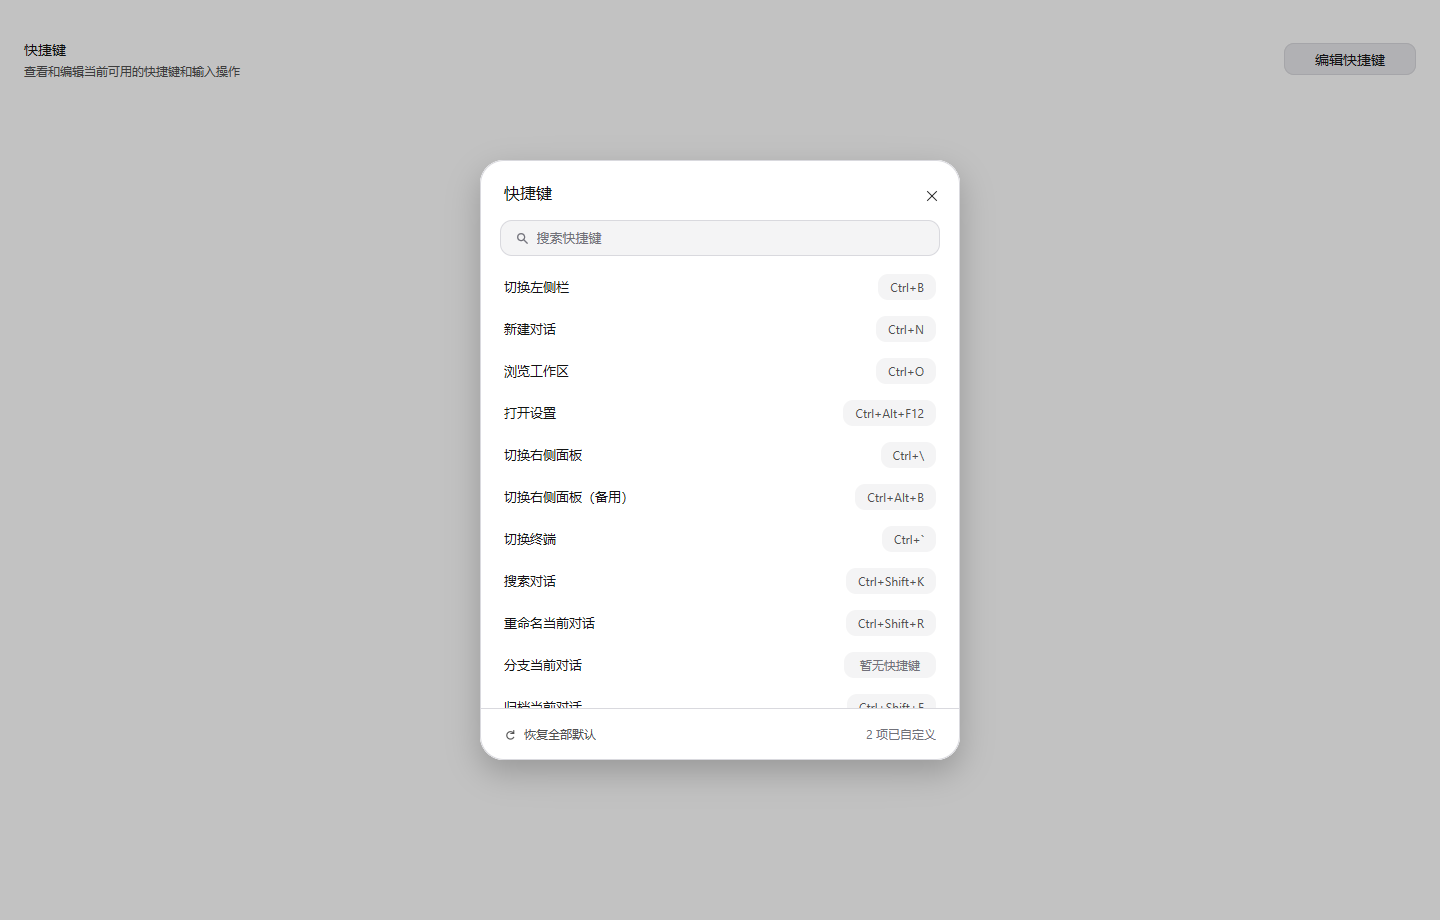
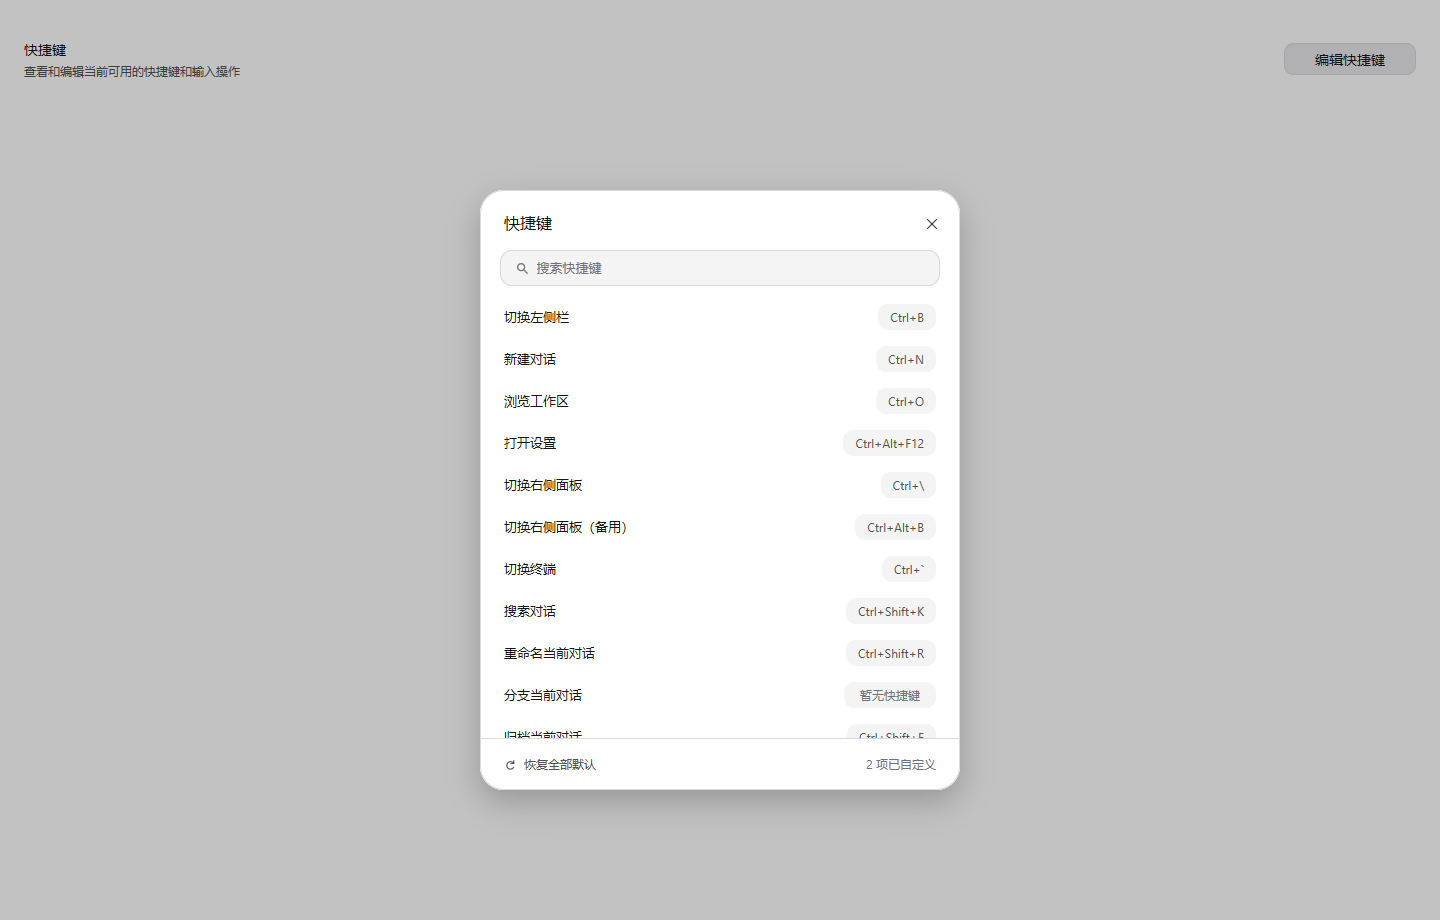
style: drop the shortcut dialog 30 DIPs and show the row edit pencil
The reference dialog sits translateY(30px) below the centered place and reveals a 20x26 pencil slot left of each key badge on hover. The inline editor also loses its extra cancel button and visible instruction, which the reference keeps off screen. DialogSurfaceBox gains OffsetY so the shared surface can drop a centered panel without moving the 40 dialogs that stay centered.

diff --git a/internal/ui/settings/shortcut_dialog_affordance_test.go b/internal/ui/settings/shortcut_dialog_affordance_test.go
@@ -1,0 +1,187 @@
+package settings
+
+import (
+	"image"
+	"math"
+	"testing"
+	"time"
+
+	"github.com/egoist/mygo/ui"
+	"whaleisle/internal/shortcuts"
+)
+
+// TestShortcutDialogDropsDownLikeTheReference pins the reference dialog's
+// translateY(30px): the 600 DIP panel centered in a 920 DIP viewport starts at
+// 190, not 160, and its 28 DIP close box keeps the reference's 20 DIP inset.
+func TestShortcutDialogDropsDownLikeTheReference(t *testing.T) {
+	e := shortcuts.NewEditor(nil, nil, func(map[string]string) error { return nil })
+	tt := shortcutDialogFixture(t, e, 1440, 920)
+
+	closeBox, ok := tt.Find(providerCopy("关闭快捷键", "Close keyboard shortcuts"))
+	if !ok {
+		t.Fatalf("shortcut dialog has no close box: %v", tt.Texts())
+	}
+	// (920-600)/2 centered + 30 dropped = 190; the close box starts 20 below.
+	wantTop := float32((920-600)/2 + shortcutDialogOffsetY + 20)
+	if math.Abs(float64(closeBox.Y-wantTop)) > 1.5 {
+		t.Fatalf("dialog top is %.1f DIPs, want %.0f (reference translateY(30px))", closeBox.Y-20, wantTop-20)
+	}
+	// The close box shares the title's center line: 28 DIP tall at 20, title
+	// 24 line height at 22.
+	if closeBox.H < 27 || closeBox.H > 29 {
+		t.Fatalf("close box is %.1f DIPs tall, want 28", closeBox.H)
+	}
+}
+
+// darkPixels counts the pixels darker than threshold inside r.
+func darkPixels(img *image.RGBA, r ui.Rect, threshold uint32) int {
+	count := 0
+	for y := int(r.Y); y < int(r.Y+r.H); y++ {
+		for x := int(r.X); x < int(r.X+r.W); x++ {
+			c := img.RGBAAt(x, y)
+			if (uint32(c.R)+uint32(c.G)+uint32(c.B))/3 < threshold {
+				count++
+			}
+		}
+	}
+	return count
+}
+
+// TestShortcutDialogRowHoverRevealsEditPencil covers the reference row
+// affordance: a 20x26 slot left of the key badge that holds the 12 DIP pencil
+// only while the pointer is over the row. The slot stays laid out while hidden,
+// so the badge does not move as the pointer enters and leaves the row.
+func TestShortcutDialogRowHoverRevealsEditPencil(t *testing.T) {
+	e := shortcuts.NewEditor(map[string]string{"session.new": "Mod+N"}, nil, func(map[string]string) error { return nil })
+	tt := shortcutDialogFixture(t, e, 1440, 920)
+
+	slot, ok := tt.Find("row-edit-session.new")
+	if !ok {
+		t.Fatalf("row has no hover action slot: %v", tt.Texts())
+	}
+	if slot.W != shortcutRowActionSize || slot.H != shortcutBadgeHeight {
+		t.Fatalf("hover slot is %.0fx%.0f, want %dx%d", slot.W, slot.H, shortcutRowActionSize, shortcutBadgeHeight)
+	}
+	badge, ok := tt.Find(shortcutDisplay("Mod+N"))
+	if !ok {
+		t.Fatalf("row has no key badge: %v", tt.Texts())
+	}
+	if !onSameLine(slot, badge) {
+		t.Fatalf("hover slot at y=%.0f is not on the badge's line y=%.0f", slot.Y, badge.Y)
+	}
+	// The badge text sits 12 DIP inside its capsule, and the capsule follows the
+	// 20 DIP slot with the row's 8 DIP gap.
+	if gap := badge.X - (slot.X + slot.W); math.Abs(float64(gap-20)) > 1.5 {
+		t.Fatalf("badge text is %.1f DIPs from the hover slot, want 20 (8 gap + 12 padding)", gap)
+	}
+	if dark := darkPixels(tt.Image(), slot, 150); dark != 0 {
+		t.Fatalf("pencil is painted while the row is not hovered (%d dark pixels)", dark)
+	}
+
+	label, ok := tt.Find("shortcut-session.new")
+	if !ok {
+		t.Fatal("row label not found")
+	}
+	tt.Move(label.X+8, label.Y+label.H/2)
+	for range 2 {
+		tt.Frame()
+	}
+	hidden := tt.Image()
+	hovered := darkPixels(hidden, slot, 150)
+	if hovered == 0 {
+		t.Fatal("hovering the row did not reveal the edit pencil")
+	}
+
+	// Leaving the row hides the pencil again and leaves the slot where it was.
+	tt.Move(label.X+8, label.Y-60)
+	for range 2 {
+		tt.Frame()
+	}
+	if dark := darkPixels(tt.Image(), slot, 150); dark != 0 {
+		t.Fatalf("pencil stayed visible after the pointer left the row (%d dark pixels)", dark)
+	}
+	if moved, ok := tt.Find("row-edit-session.new"); !ok || moved.X != slot.X {
+		t.Fatalf("hover slot moved while toggling the pencil: %.0f -> %.0f", slot.X, moved.X)
+	}
+}
+
+func onSameLine(a, b ui.Rect) bool {
+	return a.Y+a.H/2 >= b.Y-8 && a.Y+a.H/2 <= b.Y+b.H+8
+}
+
+// TestShortcutInlineEditorHasNoCancelControl keeps the reference inline editor:
+// 恢复默认, 移除 and the recorder, with no extra cancel button and no visible
+// instruction line. Leaving the row or choosing another row disarms it.
+func TestShortcutInlineEditorHasNoCancelControl(t *testing.T) {
+	writes := []map[string]string{}
+	e := shortcuts.NewEditor(map[string]string{"session.new": "Mod+N"}, nil, func(patch map[string]string) error {
+		copy := map[string]string{}
+		for id, value := range patch {
+			copy[id] = value
+		}
+		writes = append(writes, copy)
+		return nil
+	})
+	tt := shortcutDialogFixture(t, e, 900, 800)
+
+	if err := tt.Click("shortcut-settings.open"); err != nil {
+		t.Fatal(err)
+	}
+	if _, ok := tt.Find("cancel-recording"); ok {
+		t.Fatal("inline editor still offers a cancel control the reference has no place for")
+	}
+	if tt.HasText("取消") {
+		t.Fatalf("inline editor still shows a cancel label: %v", tt.Texts())
+	}
+	if tt.HasText("松开组合键即保存。") {
+		t.Fatal("inline editor still shows a visible instruction line")
+	}
+	if _, ok := tt.Find("capture-settings.open"); !ok {
+		t.Fatalf("inline editor is missing its recorder: %v", tt.Texts())
+	}
+
+	// Choosing another row moves the editor there and disarms the old recorder
+	// without writing anything.
+	if err := tt.Click("shortcut-session.new"); err != nil {
+		t.Fatal(err)
+	}
+	if e.Recording != "session.new" || len(writes) != 0 {
+		t.Fatalf("switching rows saved or kept the old recorder: %q %v", e.Recording, writes)
+	}
+
+	// Clicking the edited row's label closes the editor, the reference's
+	// click-outside gesture in a list that has no dead space.
+	if err := tt.Click("shortcut-session.new"); err != nil {
+		t.Fatal(err)
+	}
+	tt.Frame()
+	if e.Recording != "" {
+		t.Fatalf("closing the editor left its recorder armed: %q", e.Recording)
+	}
+	if _, ok := tt.Find("capture-session.new"); ok {
+		t.Fatal("closing the editor did not restore the row's key badge")
+	}
+	if len(writes) != 0 {
+		t.Fatalf("closing the editor wrote a binding: %v", writes)
+	}
+}
+
+// TestShortcutDialogHoverSnapshot writes the pointer-over-row state for the
+// visual comparison, next to the resting dialog render.
+func TestShortcutDialogHoverSnapshot(t *testing.T) {
+	e := shortcuts.NewEditor(map[string]string{"session.new": "Mod+N"}, nil, func(map[string]string) error { return nil })
+	tt := shortcutDialogFixture(t, e, 1440, 920)
+	label, ok := tt.Find("shortcut-settings.open")
+	if !ok {
+		t.Fatalf("row label not found: %v", tt.Texts())
+	}
+	tt.Move(label.X+8, label.Y+label.H/2)
+	for range 12 {
+		tt.Frame()
+		time.Sleep(16 * time.Millisecond)
+	}
+	if _, ok := tt.Find("row-edit-settings.open"); !ok {
+		t.Fatalf("hover state did not render: %v", tt.Texts())
+	}
+	saveBodySnapshot(t, tt, "settings-shortcuts-hover-1440.png")
+}

diff --git a/internal/ui/settings/shortcuts.go b/internal/ui/settings/shortcuts.go
@@ -12,16 +12,19 @@ import (
 
 // The installed build's shortcut dialog is a 480x600 reference list: a 46 DIP
 // title, a 60 DIP search row, one 42 DIP row per command with its key badge,
-// and a 52 DIP footer that owns the reset action and the customized count.
+// and a 52 DIP footer that owns the reset action and the customized count. The
+// reference drops the centered card 30 DIPs down (translateY(30px)).
 const (
 	shortcutDialogWidth   = 480
 	shortcutDialogHeight  = 600
 	shortcutDialogRadius  = 24
+	shortcutDialogOffsetY = 30
 	shortcutHeaderHeight  = 46
 	shortcutSearchHeight  = 60
 	shortcutFooterHeight  = 52
 	shortcutRowHeight     = 42
 	shortcutBadgeHeight   = 26
+	shortcutRowActionSize = 20
 	shortcutRecorderWidth = 96
 )
 
@@ -75,6 +78,7 @@ func bodyShortcutDialog(c *ui.Context, open *bool, e *shortcuts.Editor, p shortc
 			Height:  min(float32(shortcutDialogHeight), max(float32(320), h-108)),
 			Radius:  shortcutDialogRadius,
 			Padding: 0,
+			OffsetY: shortcutDialogOffsetY,
 		}
 		chrome.DialogSurfaceSized(c, backdrop, panel, c.Theme(), box).Key("shortcut-reference-dialog").Gap(0).Children(func() {
 			target := ui.Local(panel, "shortcut-target", func() string { return "" })
@@ -94,8 +98,10 @@ func bodyShortcutDialog(c *ui.Context, open *bool, e *shortcuts.Editor, p shortc
 func shortcutDialogHeader(c *ui.Context, open *bool, e *shortcuts.Editor, p shortcutPalette) {
 	ui.Row(c).FillWidth().Height(shortcutHeaderHeight).Shrink(0).Padding(22, 14, 0, 24).AlignItems(ui.Start).Children(func() {
 		ui.Text(c, providerCopy("快捷键", "Keyboard shortcuts")).FontSize(fonttheme.InterfaceSize(16)).FontWeight(500).TextColor(p.fg).Grow(1).MinWidth(0).SingleLine()
+		// The reference places the 28 DIP close box at 20 from the top, two DIPs
+		// above the title's 22, so the two share a center line.
 		close := ui.Button(c, "").Label(providerCopy("关闭快捷键", "Close keyboard shortcuts")).
-			Size(28, 28).Shrink(0).Padding(6).Radius(14).BorderWidth(0).Background(ui.Transparent).
+			Size(28, 28).Shrink(0).Margin(-2, 0, 0, 0).Padding(6).Radius(14).BorderWidth(0).Background(ui.Transparent).
 			Tooltip(providerCopy("关闭快捷键", "Close keyboard shortcuts"))
 		close.Children(func() { ui.Icon(c, settingsIcons["CloseOutline"]).Size(14, 14).TextColor(p.fg) })
 		if close.Hovered() {
@@ -176,17 +182,34 @@ func shortcutRow(c *ui.Context, e *shortcuts.Editor, command shortcuts.Command, 
 	row := ui.Button(c, "").Label("shortcut-" + command.ID).FillWidth().Shrink(0).MinHeight(shortcutRowHeight).
 		Padding(8).Gap(8).Radius(10).BorderWidth(0).Background(ui.Transparent).AlignItems(ui.Center).
 		Tooltip(providerCopy("修改"+label+"快捷键", "Edit shortcut for "+label))
+	hovered := row.Hovered()
 	row.Children(func() {
 		ui.Text(c, label).FontSize(fonttheme.InterfaceSize(13)).TextColor(p.fg).Grow(1).MinWidth(0).SingleLine()
+		shortcutRowActions(c, command.ID, p, hovered)
 		shortcutKeyBadge(c, e, command.ID, p, invalid)
 	})
-	if row.Hovered() {
+	if hovered {
 		row.Background(p.hover)
 	}
 	if row.Clicked() && e.ReadError == "" && !e.ResetPending {
 		*target = command.ID
 		e.BeginRecording(command.ID)
 	}
+}
+
+// shortcutRowActions is the reference row's hover affordance: a 20x26 slot left
+// of the key badge that shows the 12 DIP pencil while the pointer is over the
+// row. The slot stays in the layout while hidden, so the badge never shifts as
+// the pointer enters and leaves.
+func shortcutRowActions(c *ui.Context, id string, p shortcutPalette, hovered bool) {
+	slot := ui.Box(c).Label("row-edit-" + id).Size(shortcutRowActionSize, shortcutBadgeHeight).Shrink(0).
+		AlignItems(ui.Center).Justify(ui.Center).PassThrough()
+	slot.Children(func() {
+		icon := ui.Icon(c, shortcutEditIcon).Size(12, 12).TextColor(p.caption)
+		if !hovered {
+			icon.Opacity(0)
+		}
+	})
 }
 
 func shortcutKeyBadge(c *ui.Context, e *shortcuts.Editor, id string, p shortcutPalette, invalid bool) {
@@ -212,7 +235,7 @@ func shortcutKeyBadge(c *ui.Context, e *shortcuts.Editor, id string, p shortcutP
 func shortcutInlineEditor(c *ui.Context, e *shortcuts.Editor, command shortcuts.Command, p shortcutPalette, target *string, issue string) {
 	label := shortcutCommandLabel(command)
 	ui.Row(c).Key("shortcut-row-" + command.ID).FillWidth().Shrink(0).MinHeight(shortcutRowHeight).Padding(8).Gap(8).AlignItems(ui.Center).Children(func() {
-		closeEditor := ui.Button(c, "").Label("shortcut-" + command.ID).Tooltip(providerCopy("完成", "Done")).
+		closeEditor := ui.Button(c, "").Label("shortcut-" + command.ID).
 			Grow(1).MinWidth(0).Height(shortcutRowHeight).Padding(0).BorderWidth(0).Background(ui.Transparent).AlignItems(ui.Start)
 		closeEditor.Children(func() {
 			ui.Text(c, label).FontSize(fonttheme.InterfaceSize(13)).TextColor(p.fg).Grow(1).MinWidth(0).SingleLine()
@@ -238,9 +261,6 @@ func shortcutInlineEditor(c *ui.Context, e *shortcuts.Editor, command shortcuts.
 				}
 				shortcutRecorder(c, e, command.ID, func() { *target = "" })
 			})
-			if e.Recording == command.ID {
-				ui.Text(c, providerCopy("松开组合键即保存。", "Release the keys to save.")).FontSize(fonttheme.InterfaceSize(11)).TextColor(p.caption)
-			}
 			if issue != "" && e.Recording != command.ID {
 				ui.Text(c, issue).FontSize(fonttheme.InterfaceSize(11)).TextColor(c.Theme().Danger).MaxWidth(220)
 			}

diff --git a/internal/ui/settings/shortcut_icons.go b/internal/ui/settings/shortcut_icons.go
@@ -1,0 +1,8 @@
+package settings
+
+import "github.com/egoist/mygo/ui"
+
+// shortcutEditIcon is the reference row's pencil (ui-shortcuts/src/client/
+// Icons.tsx, kind "edit"): a 12 DIP filled glyph shown at the left of the key
+// badge while the pointer is over an editable row.
+var shortcutEditIcon = ui.MustParseSVG([]byte(`<svg width="12" height="12" viewBox="0 0 12 12" fill="currentColor" aria-hidden="true"><path d="M7.4553 1.01221C8.02829 0.676881 8.73746 0.676959 9.31048 1.01221C9.52928 1.14026 9.72631 1.34353 9.98255 1.59978C10.2388 1.85601 10.4421 2.05305 10.5701 2.27185C10.9053 2.84485 10.9054 3.55407 10.5701 4.12703C10.4421 4.34576 10.2387 4.54293 9.98255 4.7991L4.99422 9.78744C4.71024 10.0714 4.50494 10.2832 4.2488 10.4324C3.99266 10.5815 3.70709 10.6557 3.32001 10.7625L2.43268 11.0072C2.08118 11.1042 1.75876 11.1948 1.50071 11.2265C1.2387 11.2585 0.884455 11.2512 0.607798 10.9745C0.331166 10.6979 0.323805 10.3436 0.35587 10.0816C0.387501 9.82358 0.47815 9.50112 0.575111 9.14964L0.819864 8.26232C0.926638 7.87525 1.00083 7.58966 1.14992 7.33353C1.2991 7.07739 1.5109 6.87209 1.79489 6.58811L6.78322 1.59978C7.03941 1.34359 7.23656 1.14027 7.4553 1.01221ZM11.6568 11.13H5.6639L6.72503 10.0689H11.6568V11.13ZM2.54509 7.33831C2.22348 7.65993 2.13155 7.75784 2.06755 7.86768C2.0036 7.97757 1.96369 8.10606 1.84272 8.54454L1.59797 9.43187C1.5011 9.78304 1.44118 10.0065 1.4162 10.1653C1.57504 10.1404 1.79876 10.0814 2.15046 9.98436L3.03779 9.7396C3.47631 9.61863 3.60475 9.57874 3.71464 9.51478C3.82448 9.45077 3.92239 9.35885 4.24401 9.03723L8.04047 5.23998L6.34155 3.54106L2.54509 7.33831ZM8.77473 1.92824C8.53277 1.78664 8.233 1.78664 7.99104 1.92824C7.91987 1.97 7.83628 2.04713 7.53343 2.34998L7.09176 2.79085L8.79068 4.48977L9.23235 4.0489C9.53517 3.74608 9.61232 3.66245 9.65409 3.59128C9.79567 3.34935 9.79564 3.04954 9.65409 2.8076C9.61237 2.73635 9.53565 2.65329 9.23235 2.34998C8.92899 2.04662 8.84598 1.96995 8.77473 1.92824Z" /></svg>`))

diff --git a/internal/ui/chrome/dialog_surface.go b/internal/ui/chrome/dialog_surface.go
@@ -20,17 +20,18 @@ func DialogSurfaceTheme(c *ui.Context, backdrop, panel ui.Element, t *ui.Theme, 
 }
 
 // DialogSurfaceBox overrides the metrics a feature dialog declares: the width
-// and height of the panel, its corner radius and the padding inside the glass.
-// A zero Height keeps the panel as tall as its content, as the shared surface
-// does for settings editors.
+// and height of the panel, its corner radius, the padding inside the glass, and
+// how far its centered place drops down the window. A zero Height keeps the
+// panel as tall as its content, as the shared surface does for settings
+// editors. A zero OffsetY keeps it centered.
 type DialogSurfaceBox struct {
-	Width, Height, Radius, Padding float32
+	Width, Height, Radius, Padding, OffsetY float32
 }
 
 // DialogSurfaceSized gives a DialogBase panel explicit metrics, for the feature
 // dialogs that the installed build sizes itself: the shortcut reference is
-// 480x600 with a 24 DIP radius and no inner padding, so its header, search row
-// and footer reach the glass edges.
+// 480x600 with a 24 DIP radius, no inner padding and a 30 DIP drop from the
+// centered place, so its header, search row and footer reach the glass edges.
 func DialogSurfaceSized(c *ui.Context, backdrop, panel ui.Element, t *ui.Theme, box DialogSurfaceBox) ui.Element {
 	if box.Radius <= 0 {
 		box.Radius = 28
@@ -51,6 +52,11 @@ func dialogSurface(c *ui.Context, backdrop, panel ui.Element, bg, border ui.Colo
 		Draw(Glass(bg, MaterialPanel, box.Radius))
 	if box.Height > 0 {
 		panel.Height(box.Height).MaxHeightPercent(94)
+	}
+	// The backdrop centers the panel; a top margin of twice the drop moves the
+	// centered box down by the drop alone, as the reference's translateY does.
+	if box.OffsetY != 0 {
+		panel.Margin(2*box.OffsetY, 0, 0, 0)
 	}
 	MenuElevation(panel)
 	panel.DrawOver(func(p *ui.Painter, r ui.Rect) {

diff --git a/internal/ui/settings/shortcut_entry_test.go b/internal/ui/settings/shortcut_entry_test.go
@@ -100,8 +100,11 @@ func TestShortcutDialogRowRecordsAndPersistsOneRow(t *testing.T) {
 	if err := tt.Click("shortcut-settings.open"); err != nil {
 		t.Fatal(err)
 	}
-	if _, ok := tt.Find("capture-settings.open"); !ok || !tt.HasText("松开组合键即保存。") {
+	if _, ok := tt.Find("capture-settings.open"); !ok {
 		t.Fatalf("row did not open the reference recorder: %v", tt.Texts())
+	}
+	if tt.HasText("松开组合键即保存。") {
+		t.Fatal("inline editor still shows the page-style instruction the reference keeps off screen")
 	}
 	tt.PhysicalKeyDown("F9", ui.KeyF9, ui.Cmd, false, false, false)
 	if len(writes) != 0 || e.Recording == "" {
@@ -292,7 +295,7 @@ func TestShortcutReferenceDialogSnapshot(t *testing.T) {
 	saveBodySnapshot(t, tt, "settings-shortcuts-dialog-1440.png")
 
 	// The inline editor is the reference's second state: the row keeps its label
-	// and the binding column holds 恢复默认, 移除 and the recorder.
+	// and the binding column holds 恢复默认, 移除 and the 96 DIP recorder.
 	if err := tt.Click("shortcut-settings.open"); err != nil {
 		t.Fatal(err)
 	}
@@ -300,7 +303,7 @@ func TestShortcutReferenceDialogSnapshot(t *testing.T) {
 		tt.Frame()
 		time.Sleep(16 * time.Millisecond)
 	}
-	if !tt.HasText("松开组合键即保存。") {
+	if _, ok := tt.Find("capture-settings.open"); !ok {
 		t.Fatalf("snapshot did not reach the inline editor: %v", tt.Texts())
 	}
 	saveBodySnapshot(t, tt, "settings-shortcuts-editor-1440.png")

diff --git a/internal/ui/settings/shortcut_recording.go b/internal/ui/settings/shortcut_recording.go
@@ -133,10 +133,6 @@ func shortcutRecorder(c *ui.Context, e *shortcuts.Editor, id string, onSaved fun
 			}
 		})
 	}
-	if ui.Button(c, providerCopy("取消", "Cancel")).Label("cancel-recording").FontSize(fonttheme.InterfaceSize(11)).Clicked() {
-		reset()
-		e.CancelRecording()
-	}
 }
 
 type physicalRecording struct {
